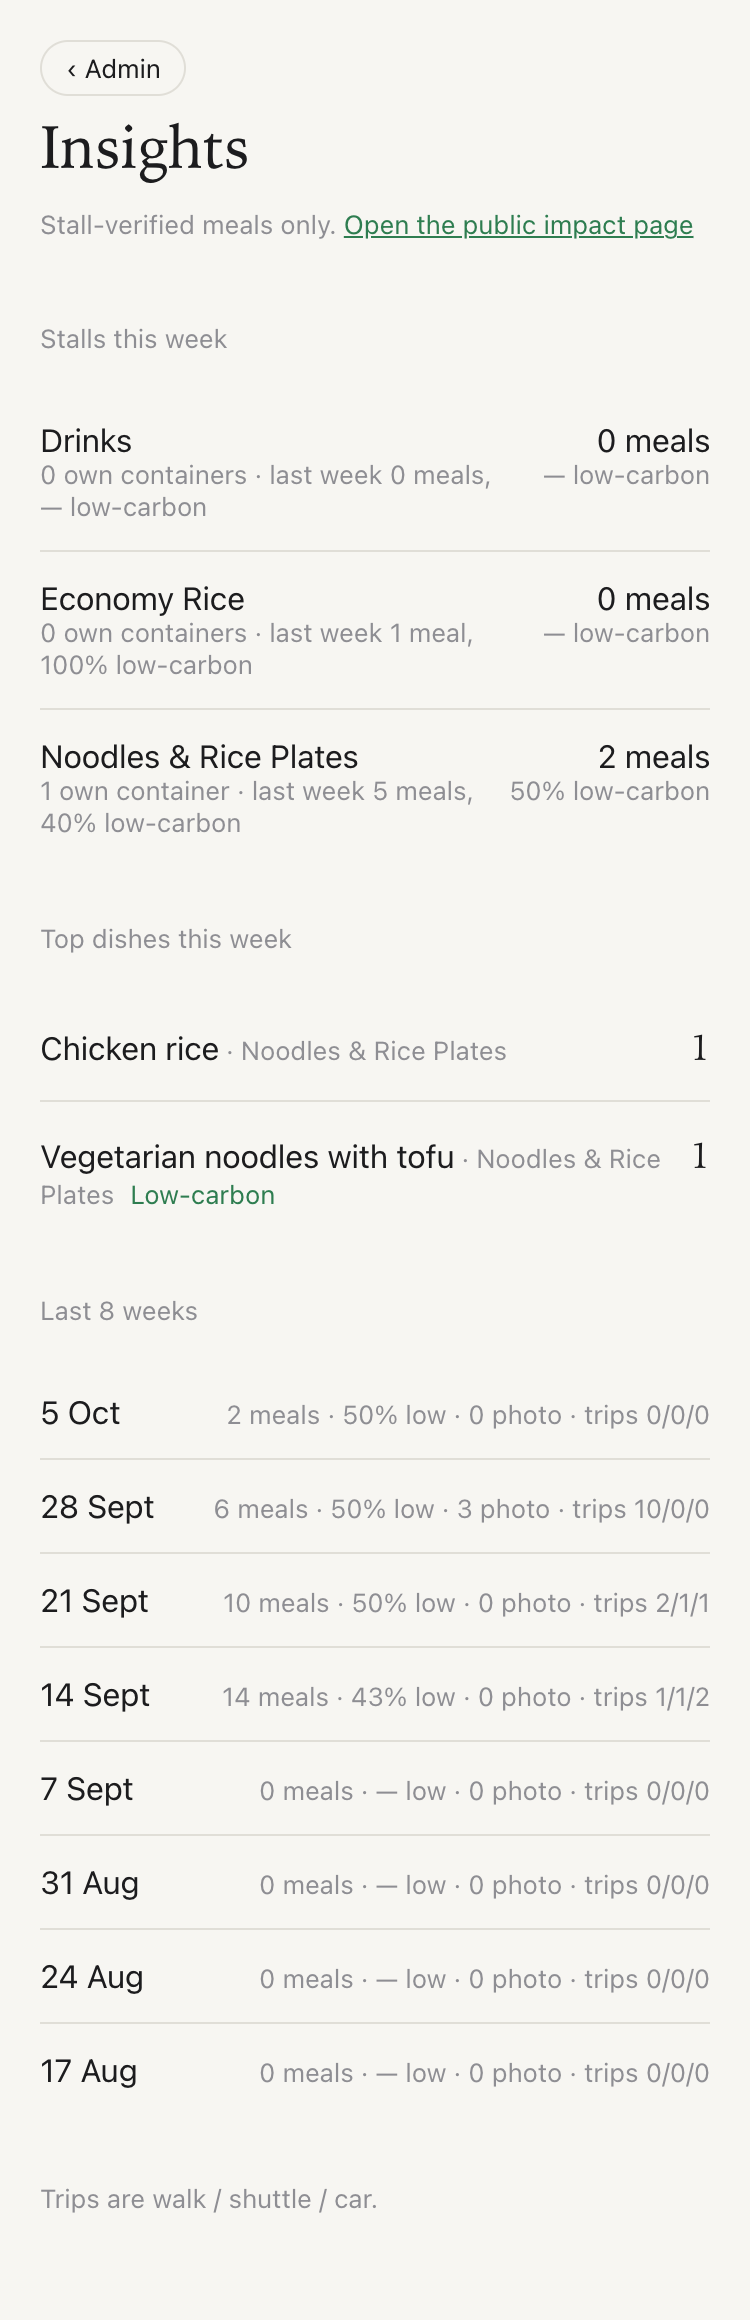
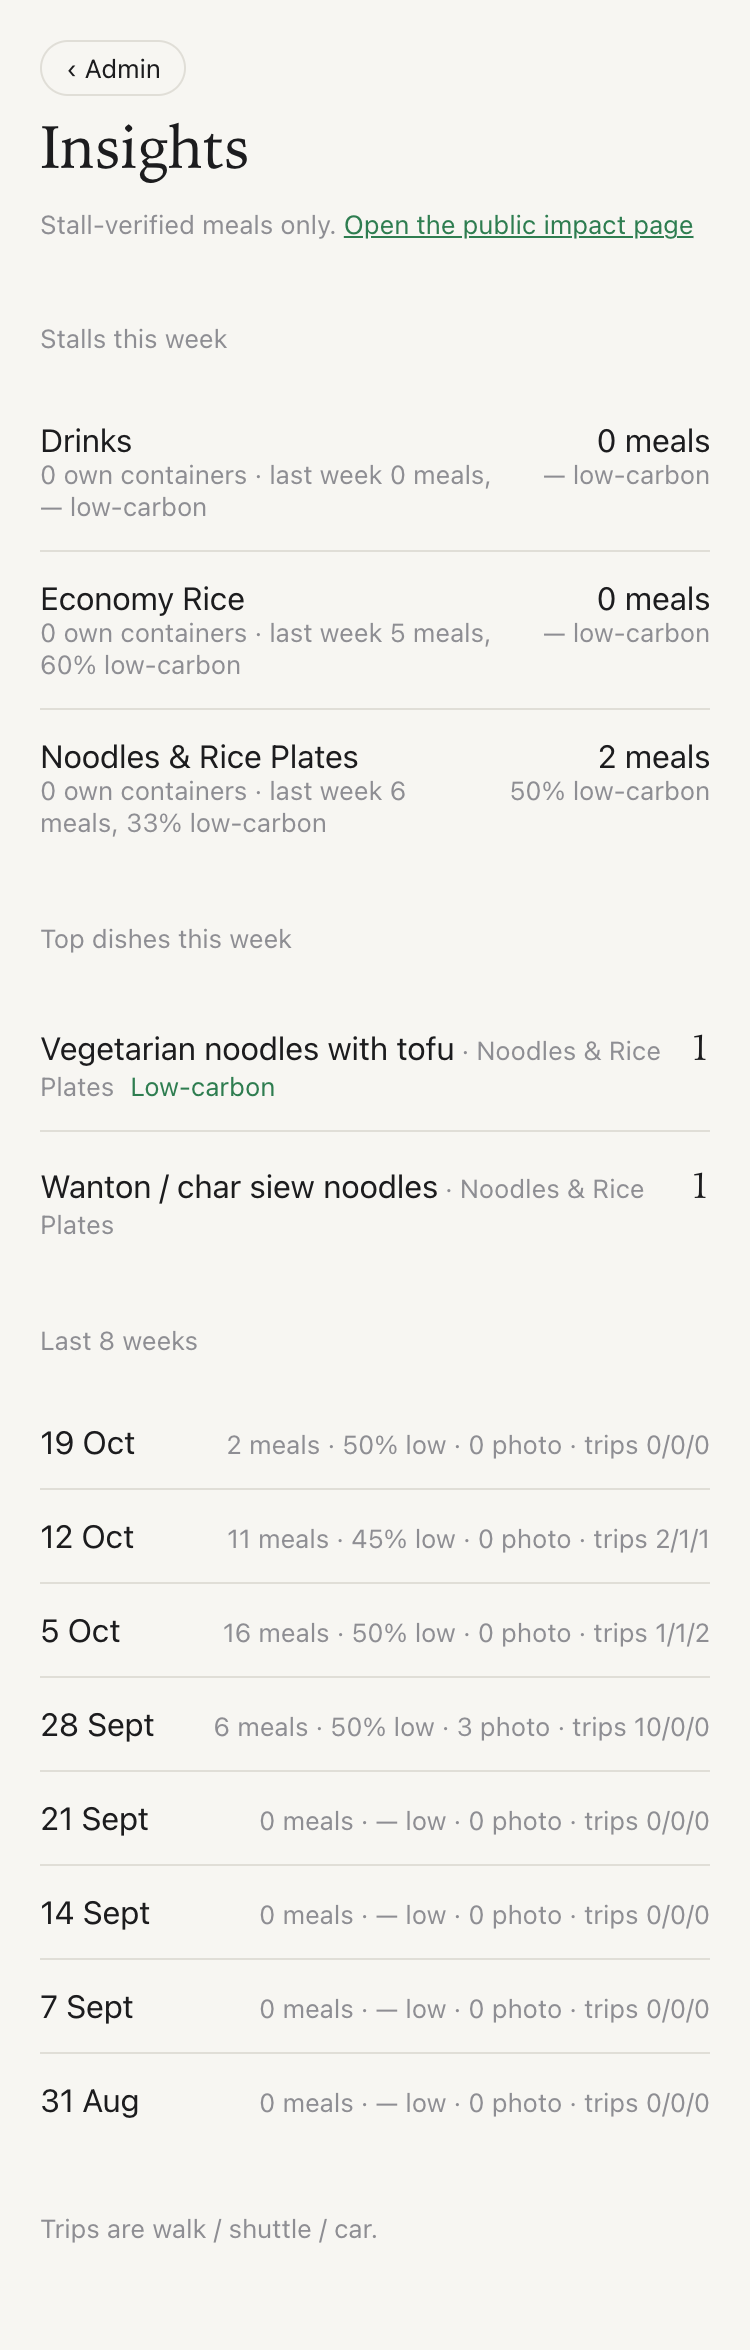
docs: retake screenshots with carbon bands and Singapore-based figures; add seller menu and green claim to the README

diff --git a/README.md b/README.md
@@ -9,13 +9,17 @@ Live demo: https://campus-carbon.stan322.workers.dev, plus the projector page at
 <table>
   <tr>
     <td align="center"><img src="docs/screenshots/today.png" width="220" alt="Today: weekly headline, budget, recap entry and the nudge"><br><sub>Today</sub></td>
+    <td align="center"><img src="docs/screenshots/seller-menu.png" width="220" alt="Seller menu with each dish's carbon band and kg"><br><sub>Seller menu, banded by kg CO₂e</sub></td>
+    <td align="center"><img src="docs/screenshots/claim-green.png" width="220" alt="Student's claim result: Green meal +20"><br><sub>Student's claim: Green meal +20</sub></td>
+  </tr>
+  <tr>
     <td align="center"><img src="docs/screenshots/seller-qr.png" width="220" alt="Seller sheet with a claim QR code"><br><sub>Seller shows a claim QR</sub></td>
     <td align="center"><img src="docs/screenshots/log-trip.png" width="220" alt="Logging a trip with walk, shuttle and car options"><br><sub>Log a trip</sub></td>
+    <td align="center"><img src="docs/screenshots/rewards.png" width="220" alt="Rewards with a live redemption code and QR"><br><sub>Rewards: live code</sub></td>
   </tr>
   <tr>
     <td align="center"><img src="docs/screenshots/missions.png" width="220" alt="Daily and weekly missions with badges"><br><sub>Missions and badges</sub></td>
     <td align="center"><img src="docs/screenshots/recap.png" width="220" alt="Shareable weekly recap card"><br><sub>Weekly recap card</sub></td>
-    <td align="center"><img src="docs/screenshots/rewards.png" width="220" alt="Rewards with a live redemption code and QR"><br><sub>Rewards: live code</sub></td>
   </tr>
 </table>
 
